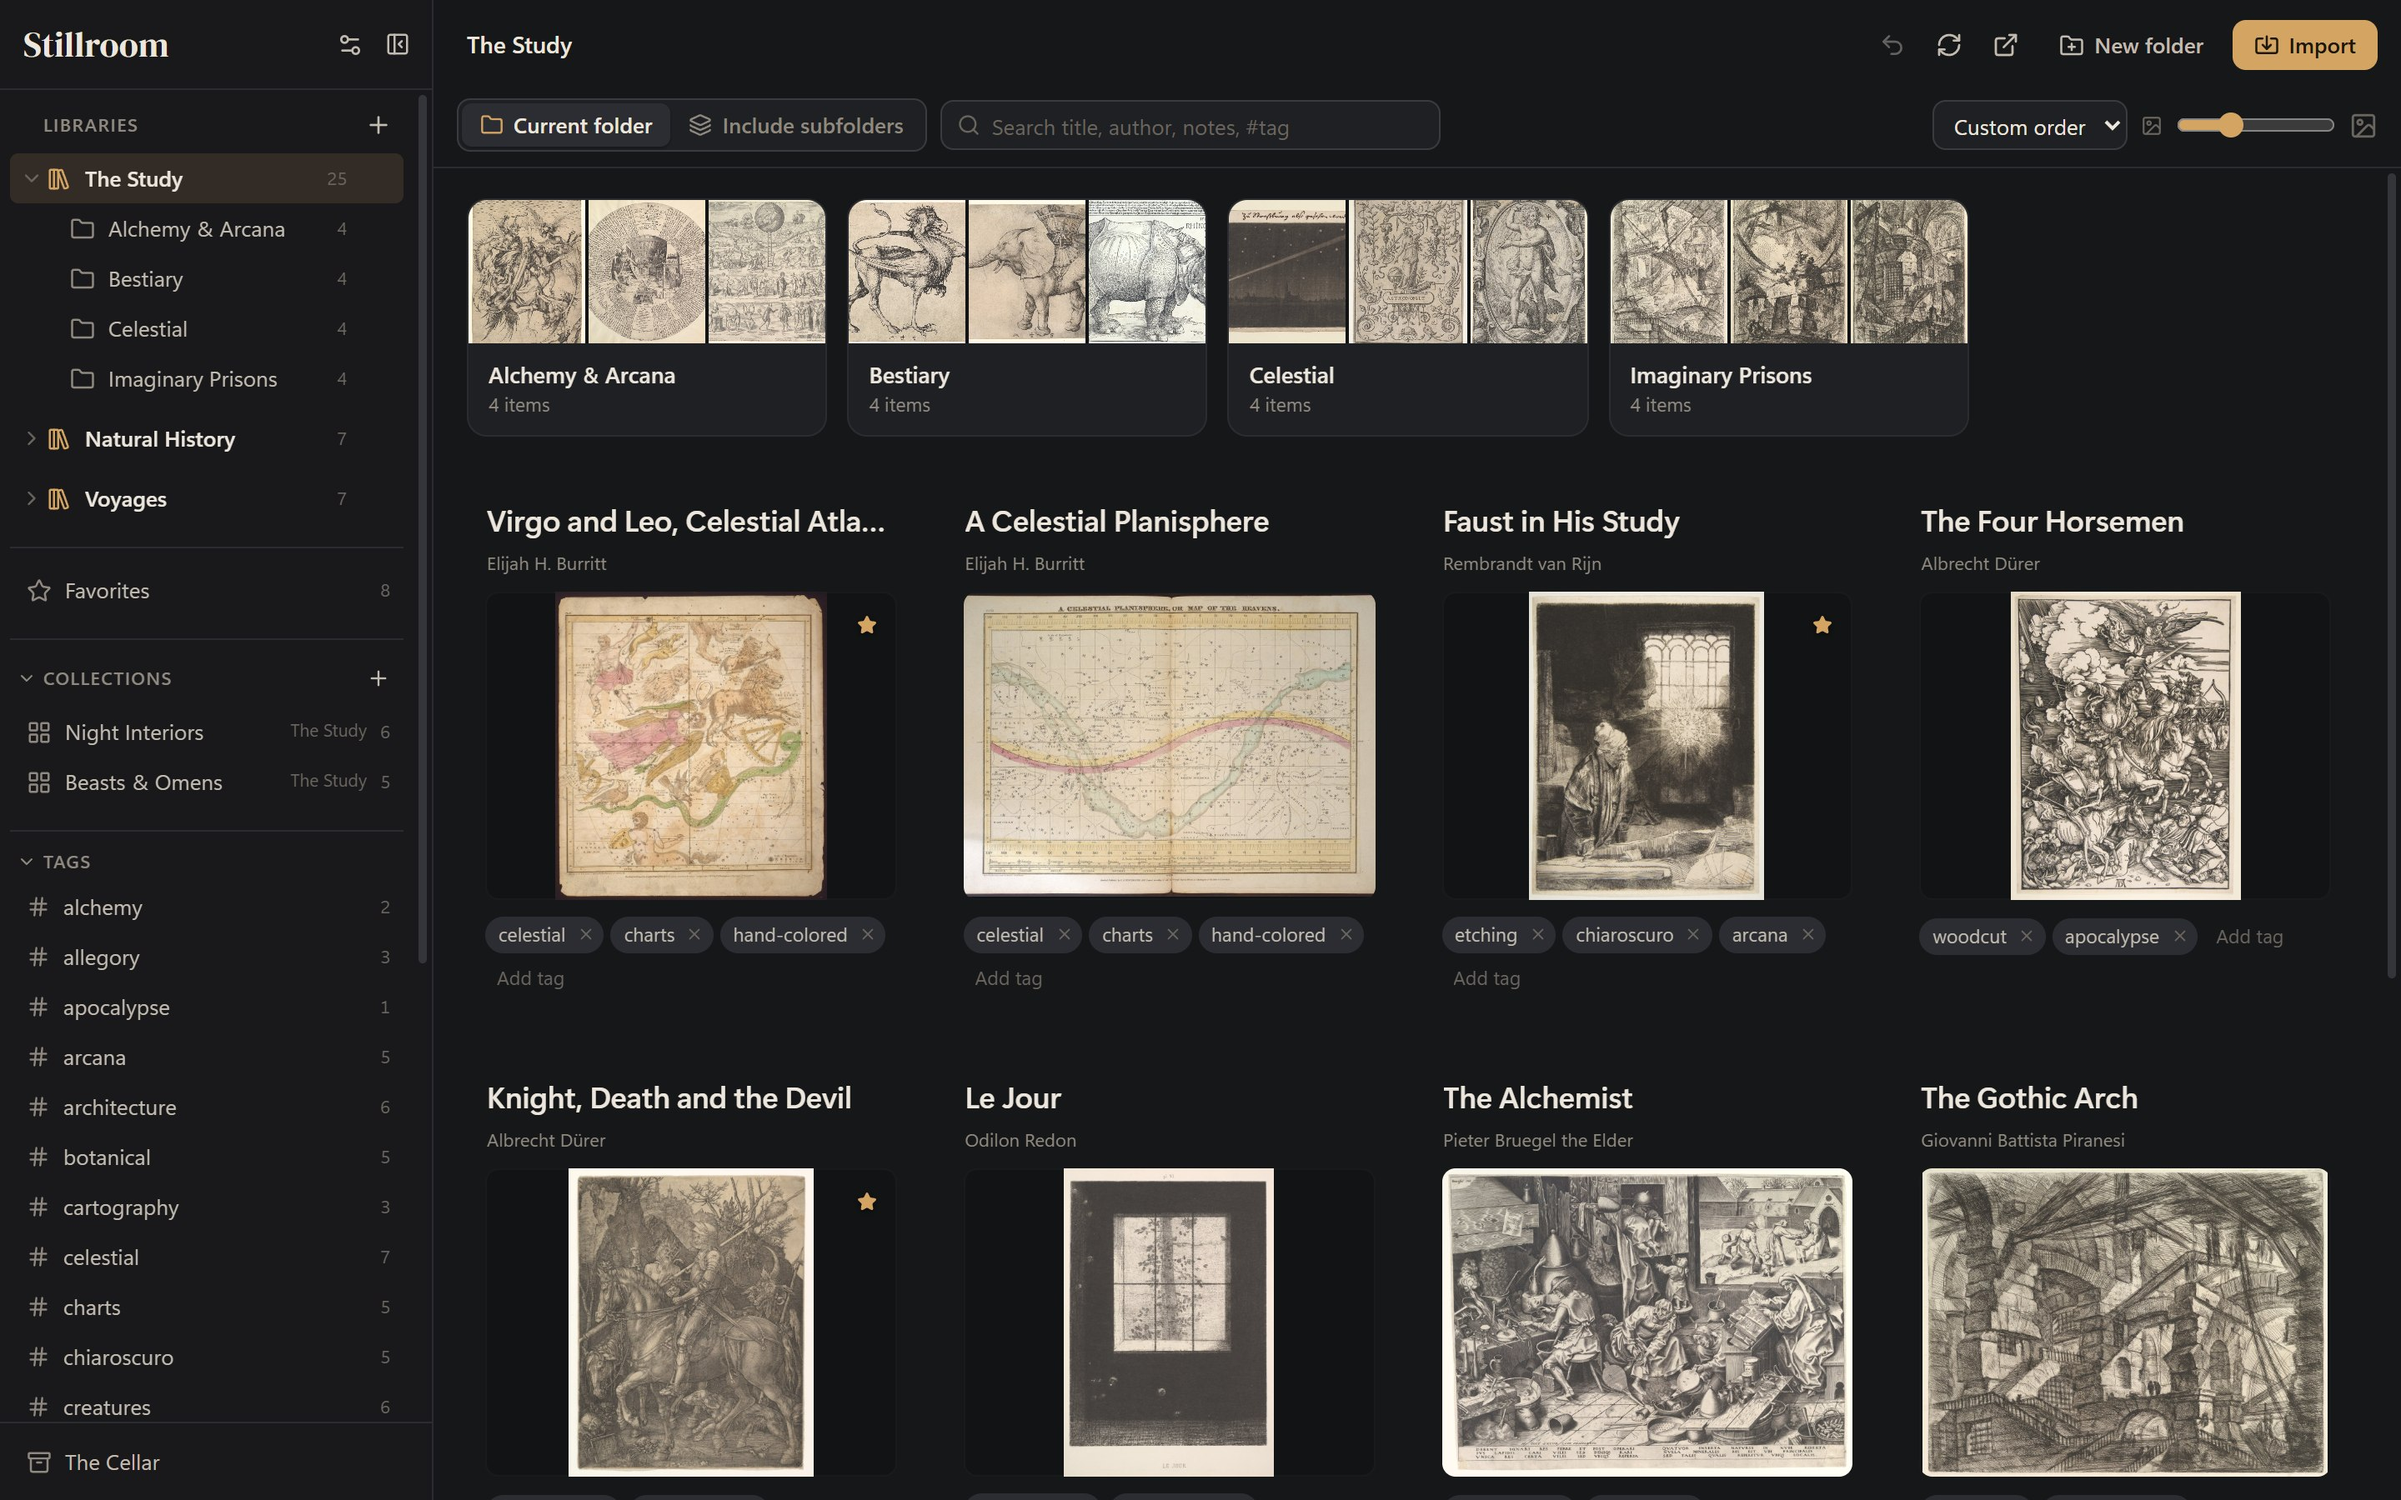
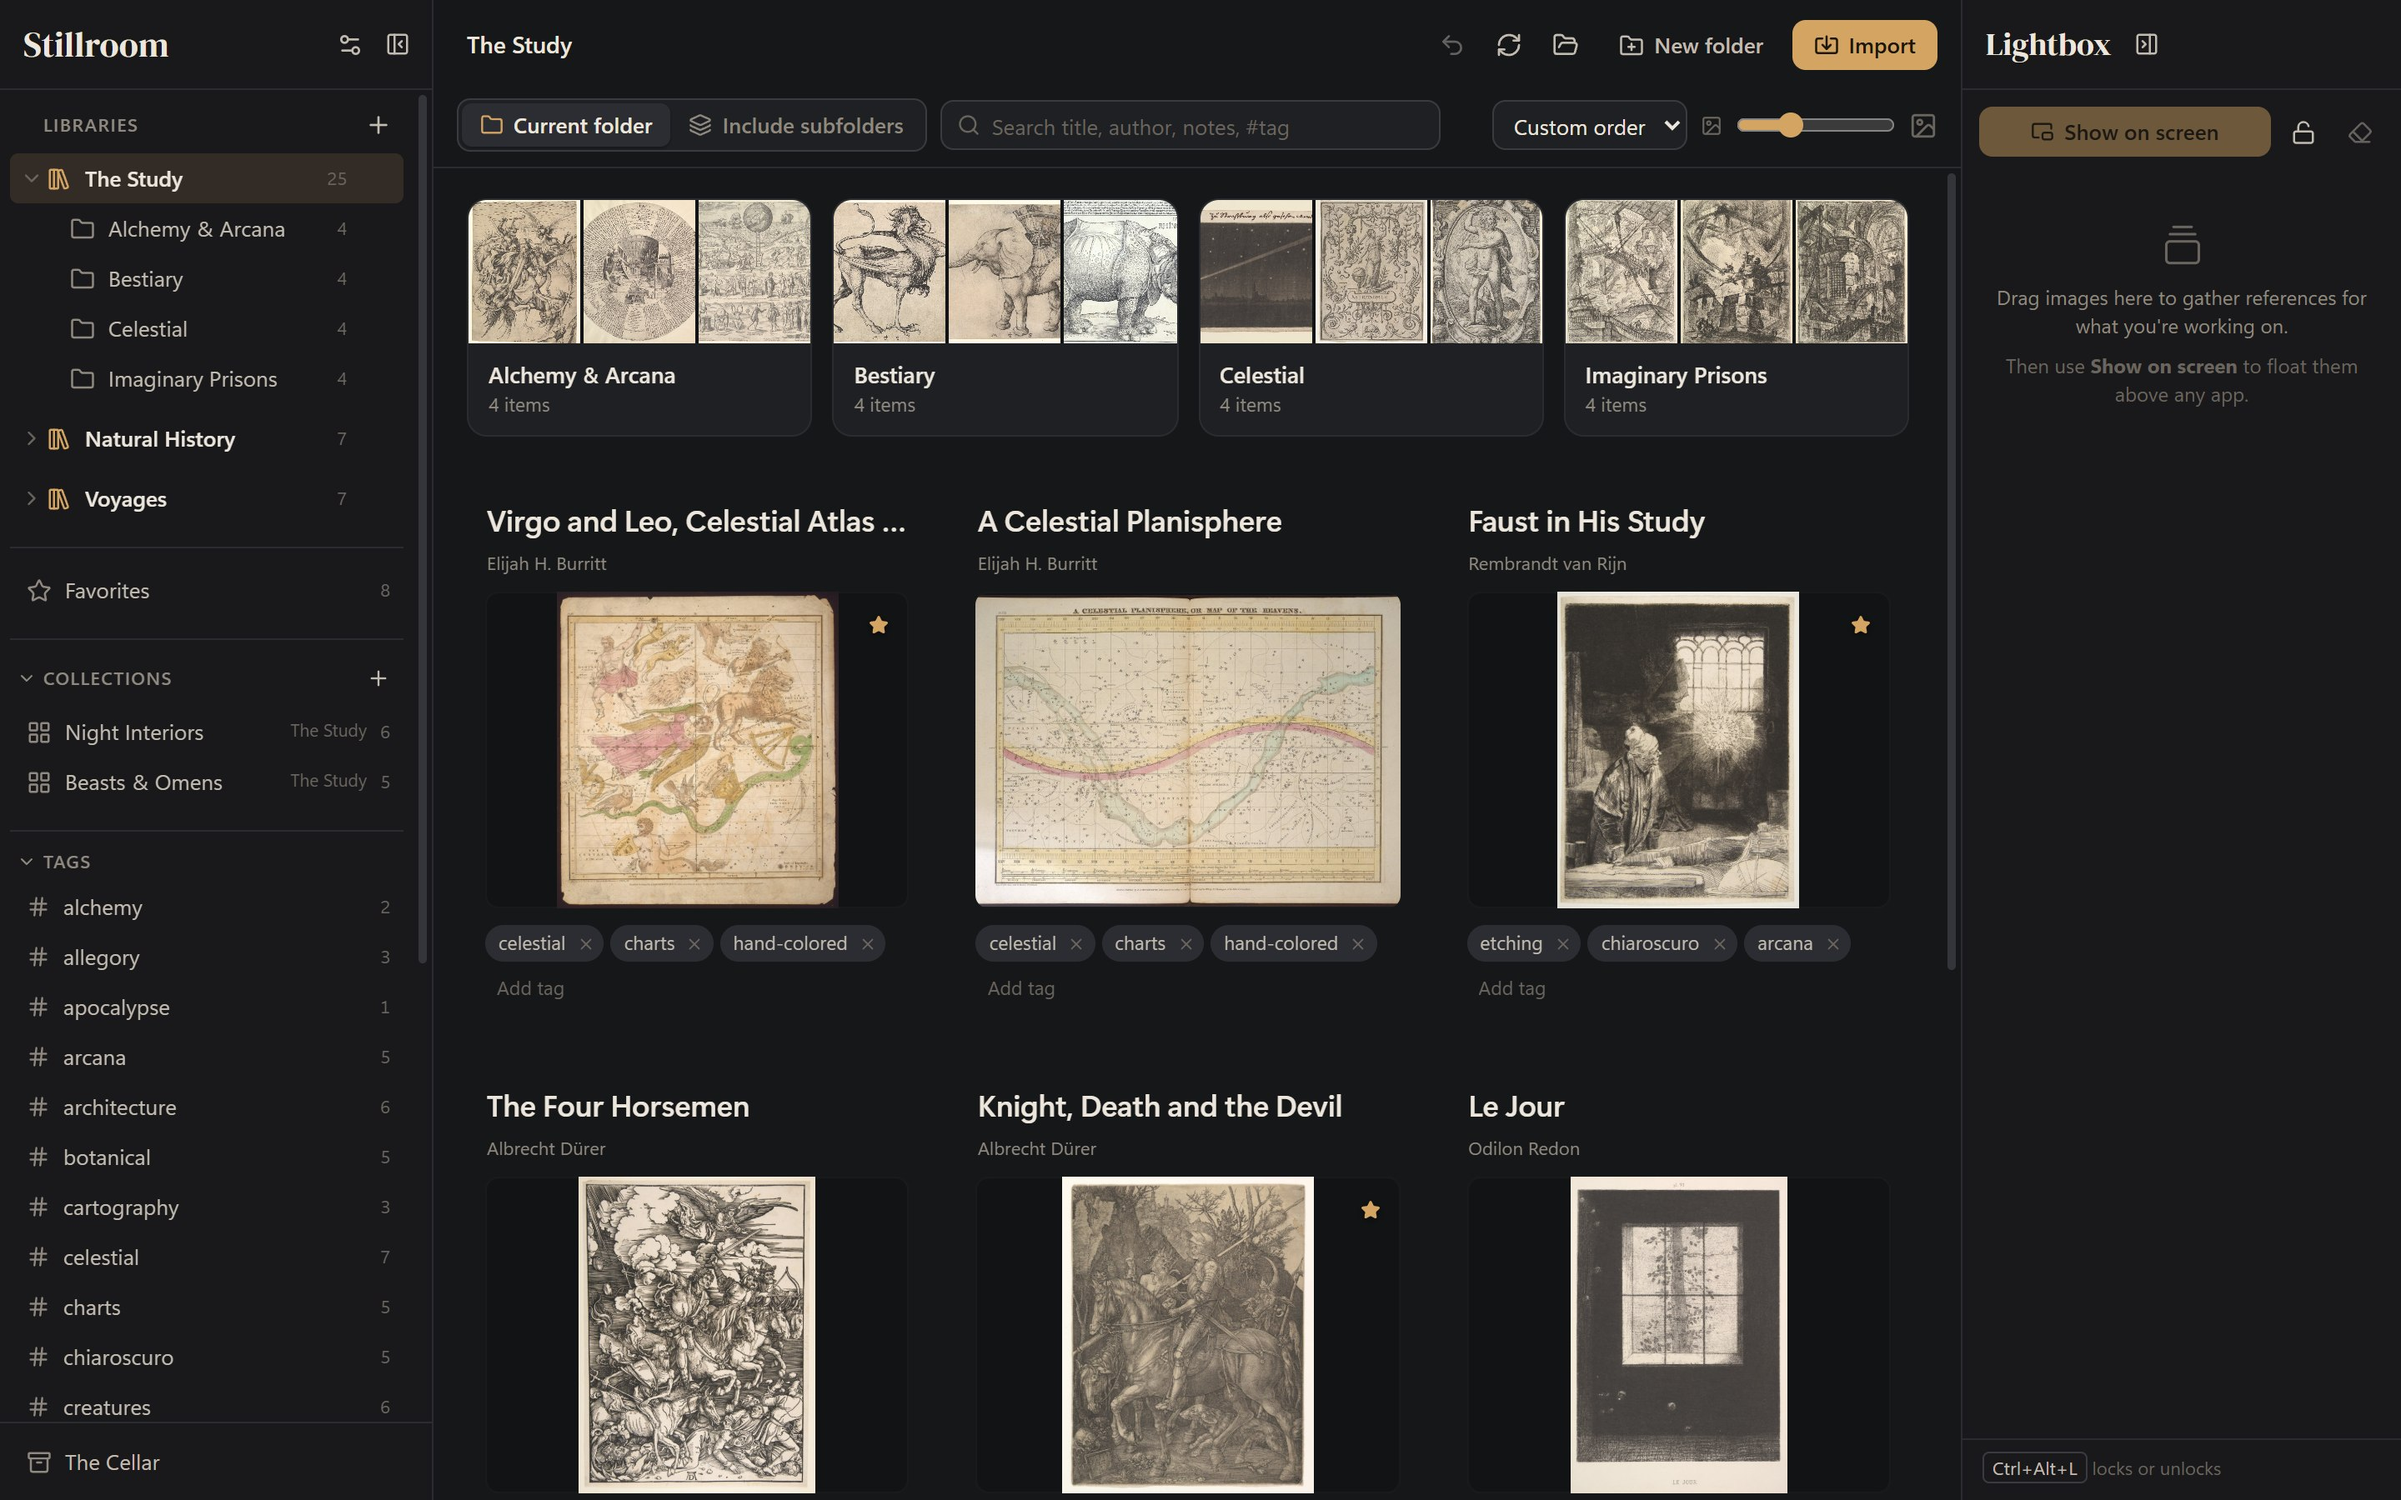
README: new 0.4.0 screenshots, including the Lightbox over Krita

diff --git a/README.md b/README.md
@@ -11,7 +11,7 @@
   <a href="https://stillroom.cc">stillroom.cc</a>
 </p>
 
-![Stillroom showing a library of engravings and celestial charts: folders, tags and collections in the sidebar, and four references gathered in the Lightbox tray on the right](assets/stillroom-lightbox.jpg)
+![The Lightbox: four reference images floating over Krita while an etching is open on the canvas. One reference is faded so the canvas shows through it](assets/stillroom-lightbox-krita.jpg)
 
 > **New in 0.4.0: the Lightbox.** Gather references in a tray, then float them above
 > any app while you work. See the [changelog](CHANGELOG.md) for everything new.
@@ -40,6 +40,8 @@ upload anything, and works offline.
 - Drag to move. Drag the corner or scroll to resize, keeping the proportions. Hover for an opacity slider so the work underneath shows through.
 - **Lock** with the button or **Ctrl+Alt+L** from any app: images stay put and clicks pass straight through to the app underneath.
 
+![The Lightbox tray on the right of the Stillroom window, holding four references gathered from the board](assets/stillroom-lightbox-tray.jpg)
+
 **Your folders are the library**
 - Any folder becomes a library; its subfolders are boards. Keep several libraries open at once.
 - Create, rename, move and delete folders from inside Stillroom; the changes happen on disk.
@@ -51,25 +53,34 @@ upload anything, and works offline.
 - Drag items into folders and collections, or drag to arrange them in your own order.
 - Multi-select for bulk tagging and moving, right-click menus, and **Ctrl+Z** to undo.
 
+![A library of engravings and charts: folder tiles, cards with authors and tags, and the sidebar with libraries, collections and tags](assets/stillroom-board.jpg)
+
 **Find**
 - Search titles, authors, notes and tags. Type `#tag` to match tags only.
 - Include subfolders, sort several ways, resize thumbnails.
+
+![A tag view showing everything tagged "celestial" across folders](assets/stillroom-tag.jpg)
 
 **View**
 - A full viewer with zoom, pan, arrow-key browsing and each image's colour palette.
 - Video playback, with first-frame thumbnails.
 
+![The viewer: an engraving on the left, with its tags, notes, colour palette and file details on the right](assets/stillroom-viewer.jpg)
+
 **The Cellar**
 - Set media aside instead of deleting it. It leaves boards and search but keeps its tags and notes.
 - Restore it later, or delete it to the Recycle Bin.
+
+![The Cellar: two set-aside images, with Restore and Delete buttons on hover](assets/stillroom-cellar.jpg)
 
 **Built for big collections**
 - Tested with 30,000-item libraries. Thumbnails are made in the background.
 - Dark, light, or match-your-system theme.
 
-![The viewer: an engraving on the left, with its tags, notes, colour palette and file details on the right](assets/stillroom-viewer.jpg)
-
-![A tag view showing everything tagged "celestial" across folders](assets/stillroom-tag.jpg)
+<p>
+  <img src="assets/stillroom-light.jpg" width="49%" alt="The board in the light theme">
+  <img src="assets/stillroom-viewer-light.jpg" width="49%" alt="The viewer in the light theme">
+</p>
 
 ## Install
 
@@ -146,6 +157,7 @@ The full list of open-source licenses is in the app under **Settings → Third-p
 The artworks in these screenshots are public-domain works from
 [The Metropolitan Museum of Art](https://www.metmuseum.org/about-the-met/policies-and-documents/open-access)
 and [Cooper Hewitt](https://www.cooperhewitt.org/open-access-at-cooper-hewitt/) open-access collections.
+The Lightbox screenshot shows the free painting app [Krita](https://krita.org).
 
 ---
 
